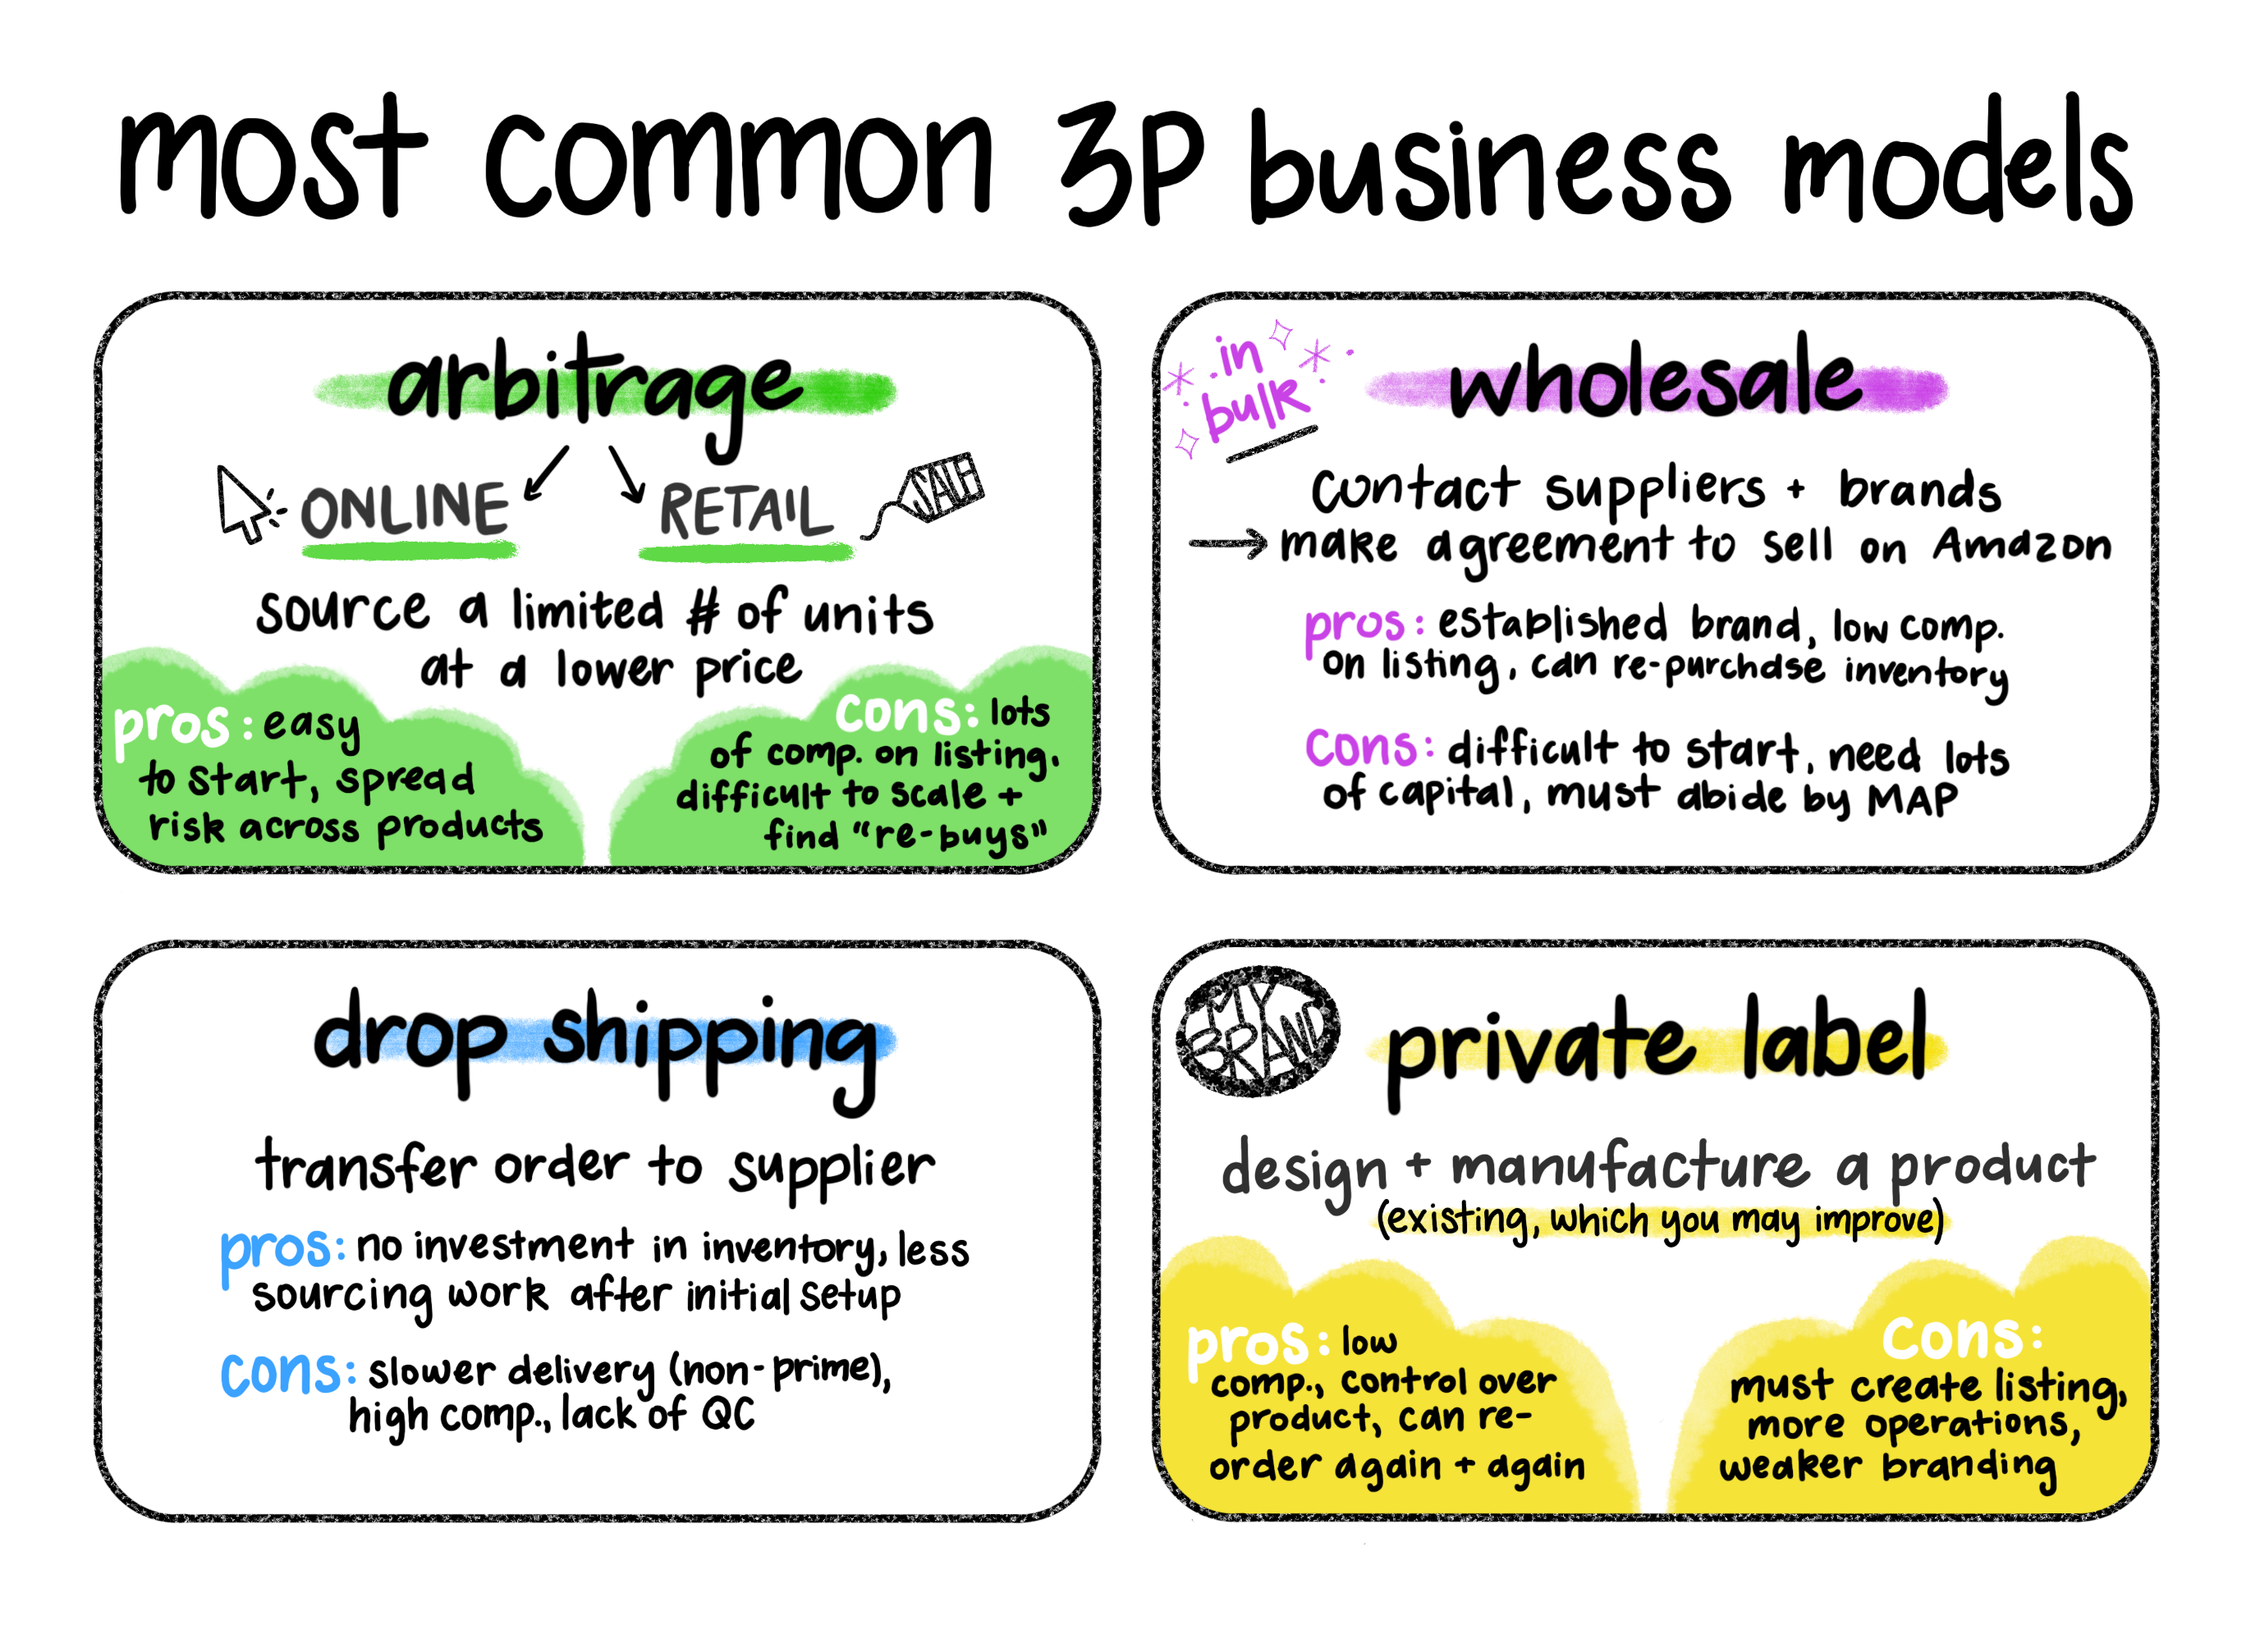
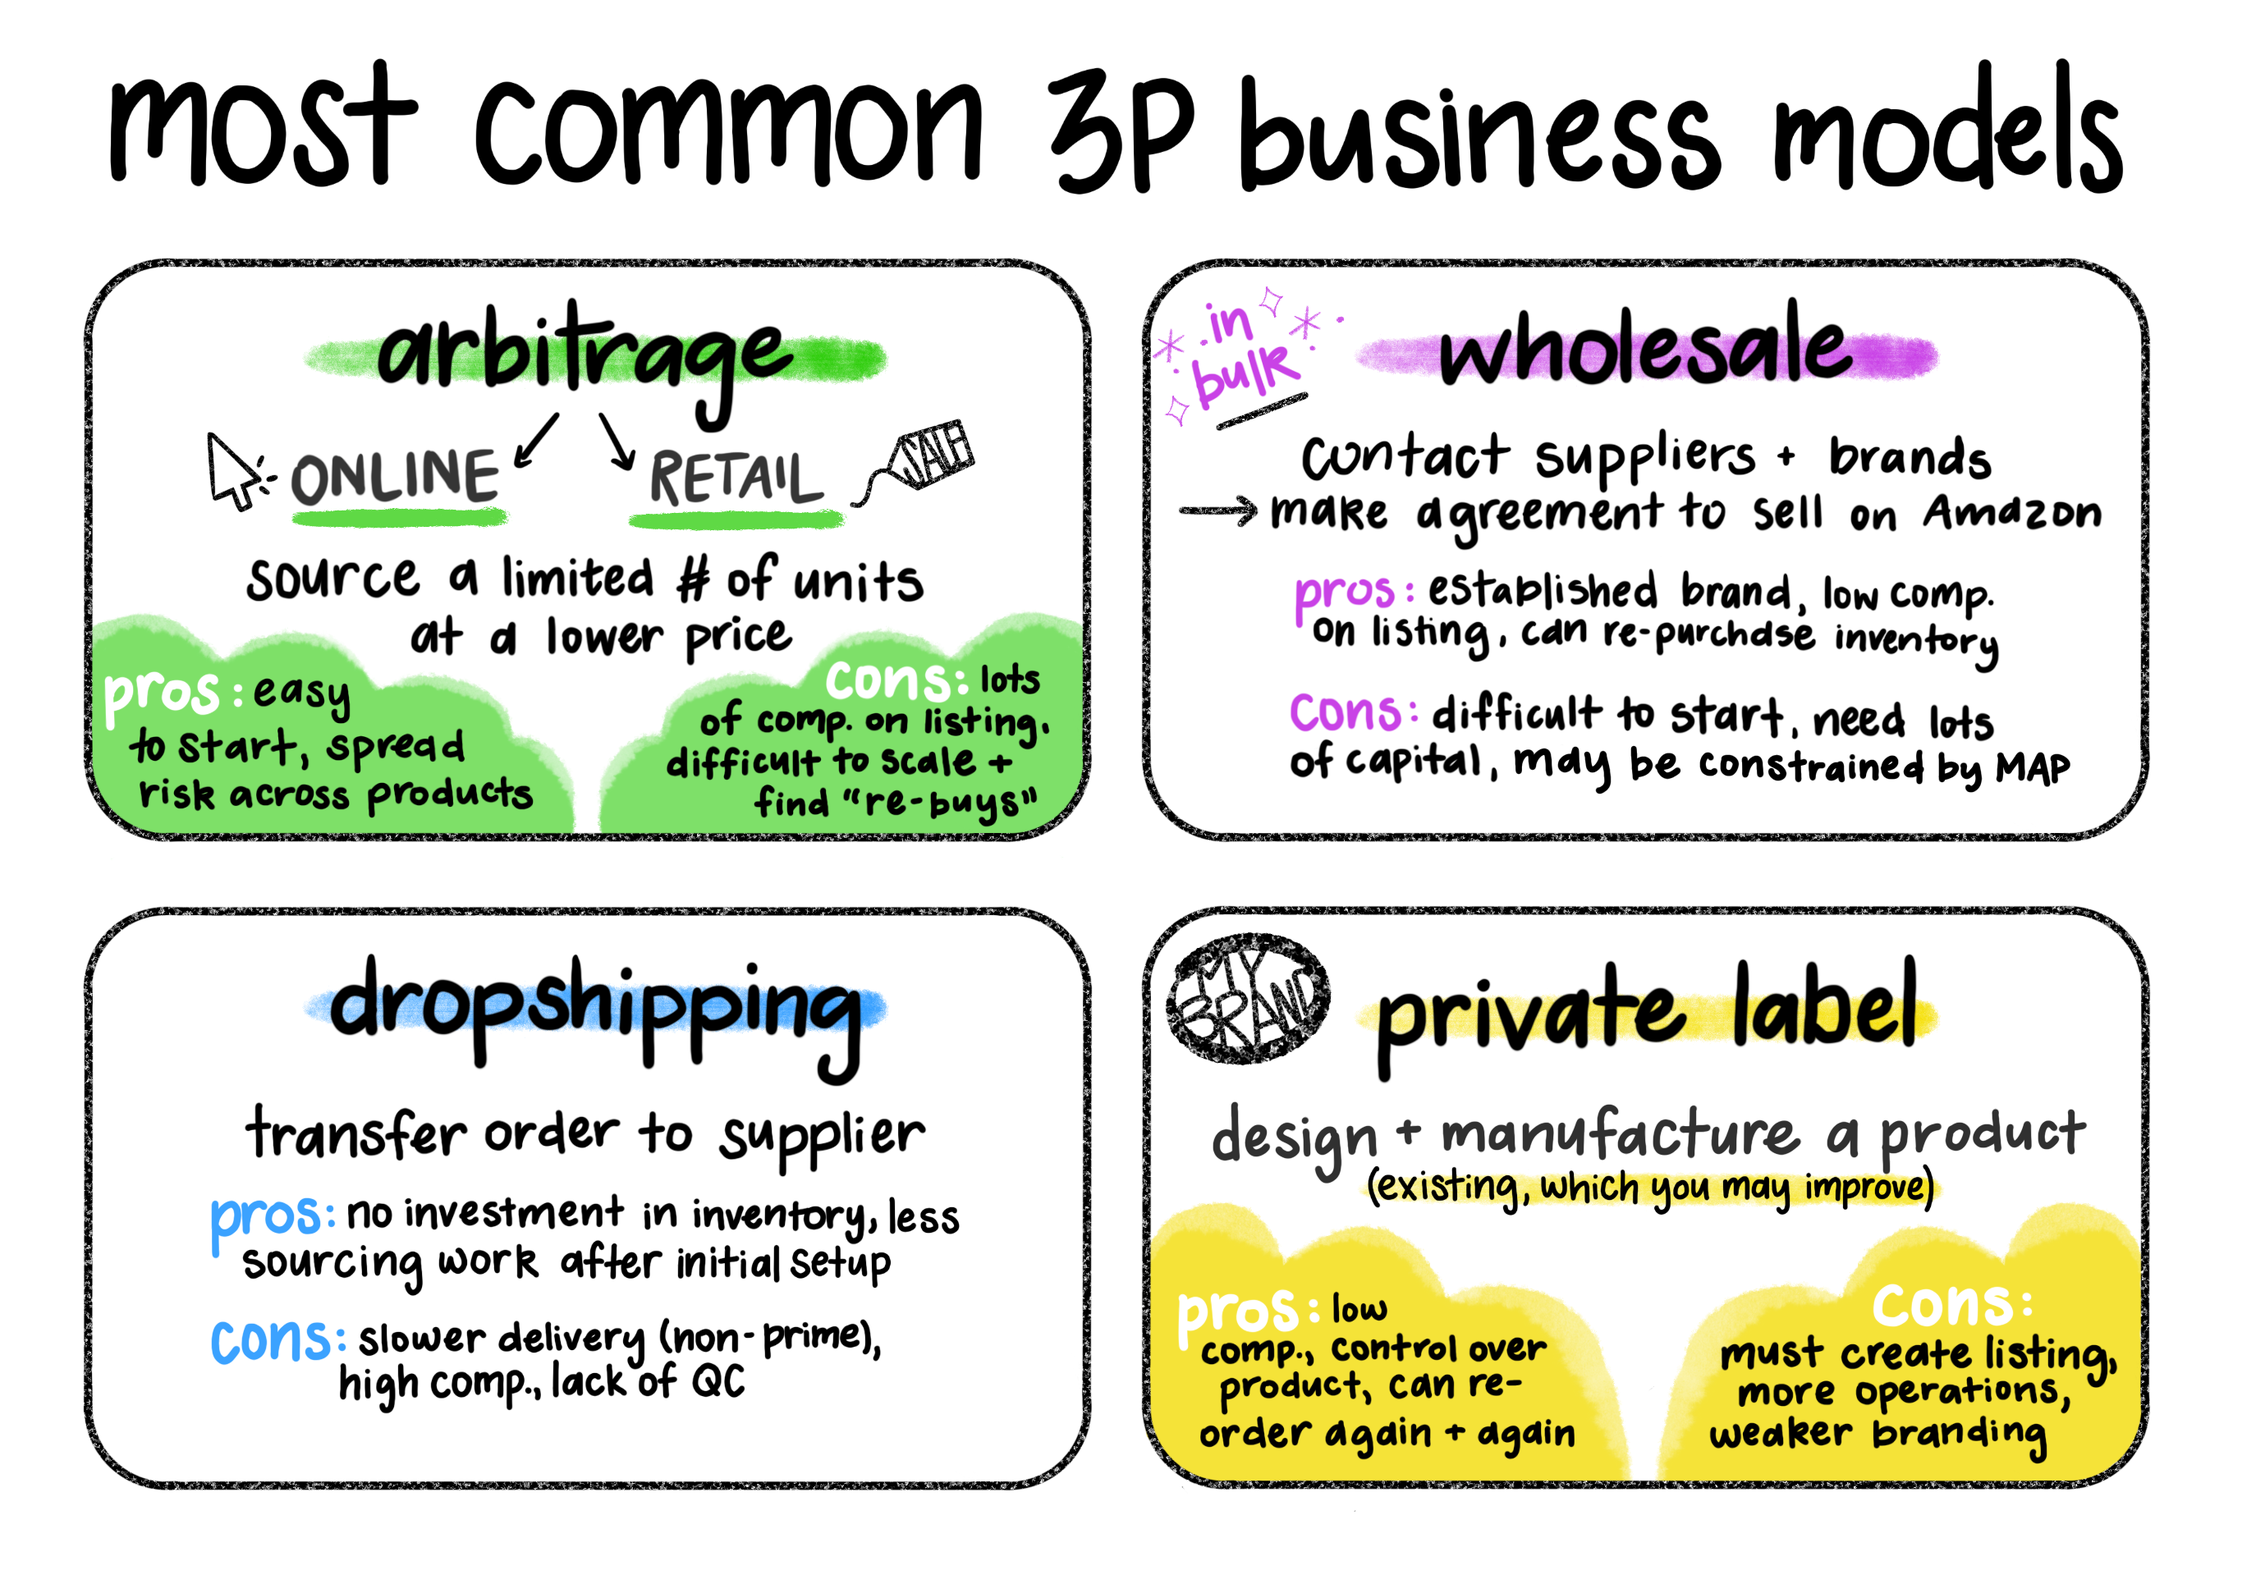
blog updates

Changed region(s): [[0.0311, 0.0311, 0.9648, 0.9637]]

diff --git a/content/posts/selling-on-amazon/index.md b/content/posts/selling-on-amazon/index.md
@@ -20,7 +20,7 @@ The most surprising insight for me is that we are often buying from small busine
 
 These can be established businesses selling their own products on the Amazon marketplace for greater reach, but it’s often individuals and small businesses who found that product cheaper elsewhere to resell on Amazon.
 
-There are entire communities of students, stay-at-home moms, retirees, etc. making a living selling on Amazon. The most common business models are arbitrage (online or retail), wholesale, drop shipping, and private label.
+There are entire communities of students, stay-at-home moms, retirees, etc. making a living selling on Amazon. The most common business models are arbitrage (online or retail), wholesale, dropshipping, and private label.
 
 ![Most common 3P Business Models Sketch.png](1+.png)
 
@@ -54,11 +54,11 @@ Amazon also wants to provide consumers with the best prices, so they’ll weigh 
 
 ### **By the time you check out and your purchase is headed your way, it’s on the final leg of its journey**
 
-When arbitrage sellers first source their item, they may pick it up from a physical store or have it shipped to their home. From there, they’ll either (a) ship the item to Amazon’s warehouse (b) ship the item to a shipping center that specializes in ‘prepping’ items for the Amazon warehouse or (c) hang onto the item and ship directly to the end consumer (merchant fulfilled shipping). *(Established arbitrage sellers might have inventory delivered straight to the prep center.)*
+When arbitrage sellers first source their item, they may pick it up from a physical store or have it shipped to their home. From there, they’ll either (a) ship the item to a center that specializes in ‘prepping’ items for the Amazon warehouse (b) prep the items at home and ship them to Amazon on their own or (c) hang onto the item and ship directly to the end consumer (merchant fulfilled shipping). *(Established arbitrage sellers might have inventory delivered straight to the prep center.)*
 
 Wholesale and private label sellers are most likely to operate at scale, so they often avoid touching the inventory at all. Once they make an inventory purchase, it’ll go to the prep center to get ready for Amazon.
 
-One of the more unique (*and most efficient*) distribution paths is for drop shippers. These 3rd-party sellers pass Amazon orders directly to the supplier, who fulfills the order outside of the Amazon network. The shipping for these offers are likely to be slower than Prime and sellers must be careful about meeting the strict criteria for dropshipping per Amazon's ToS.
+One of the more unique (*and most efficient*) distribution paths is for dropshippers. These 3rd-party sellers pass Amazon orders directly to the supplier, who fulfills the order outside of the Amazon network. The shipping for these offers are likely to be slower than Prime and sellers must be careful about meeting the strict criteria for dropshipping per Amazon's ToS.
 
 ![Journey of an Amazon package sketch.png](3.png)
 
